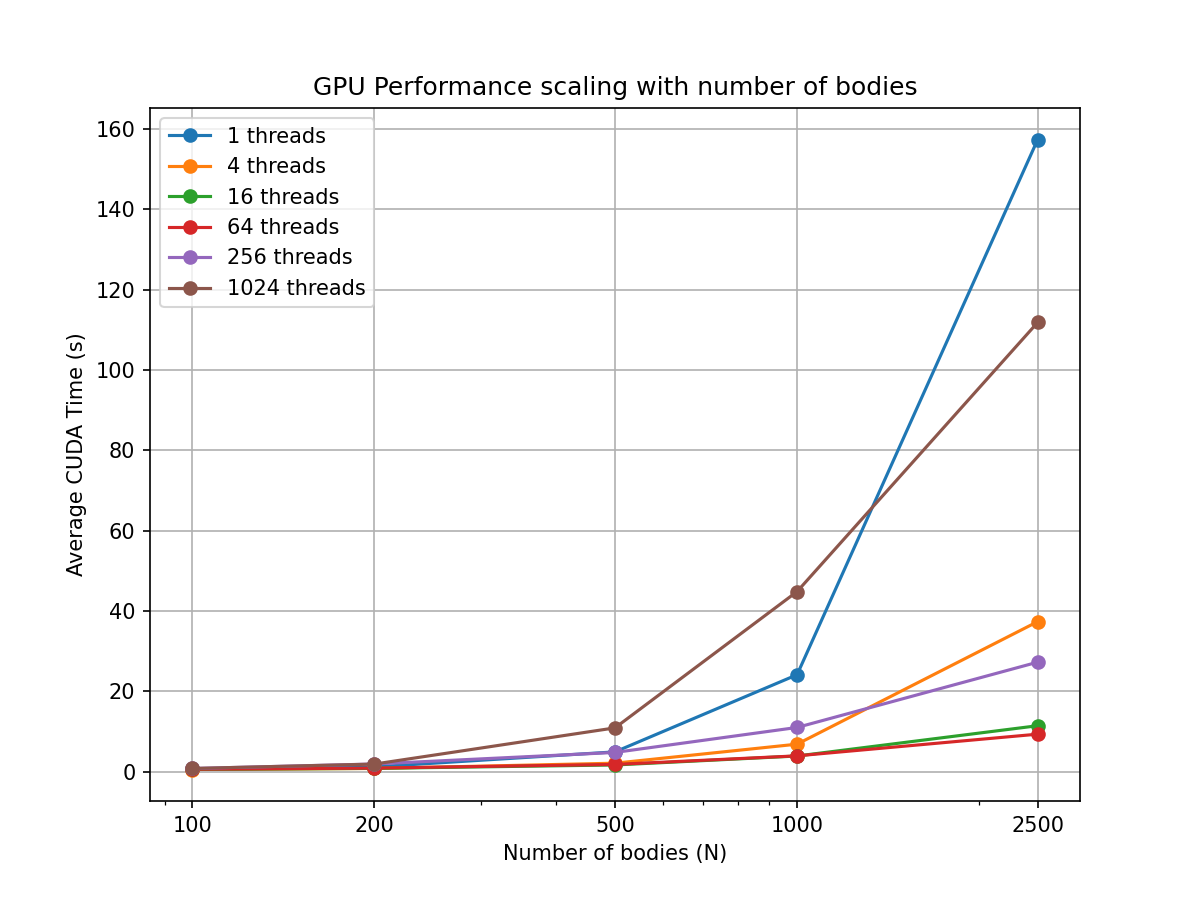
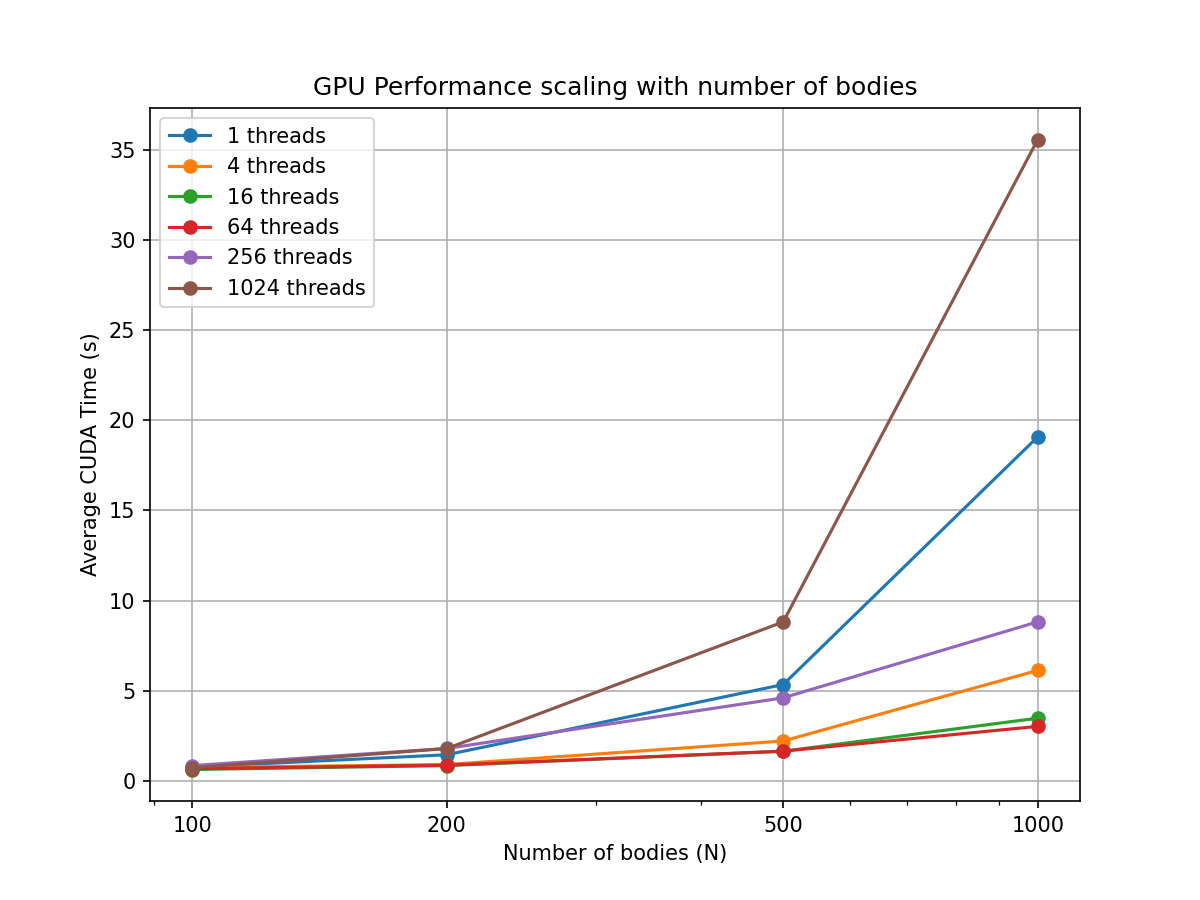
all benchmarks for task1

diff --git a/src/task1/benchmarks/benchmark_results.md b/src/task1/benchmarks/benchmark_results.md
@@ -3,35 +3,29 @@
 ## Summary
 Ниже приводится таблица результатов с разными N и количеством потоков:
 
-| N | threads | avg_time_CPU (s) | avg_time_CUDA (s) | Speedup S |
-|---|----------|-----------------|-------------------|-----------|
-| 100 | 1 | 0.900075 | 0.596447 | 1.00 |
-| 100 | 4 | 0.891023 | 0.578254 | 1.01 |
-| 100 | 16 | 0.935385 | 0.595345 | 0.96 |
-| 100 | 64 | 1.011757 | 0.644286 | 0.89 |
-| 100 | 256 | 1.242994 | 0.827121 | 0.72 |
-| 100 | 1024 | 1.182460 | 0.835759 | 0.76 |
-| 200 | 1 | 1.605920 | 1.222442 | 1.00 |
-| 200 | 4 | 1.255144 | 0.835049 | 1.28 |
-| 200 | 16 | 1.249268 | 0.853411 | 1.29 |
-| 200 | 64 | 1.002846 | 0.925149 | 1.60 |
-| 200 | 256 | 2.370934 | 1.948402 | 0.68 |
-| 200 | 1024 | 2.330678 | 1.927340 | 0.69 |
-| 500 | 1 | 5.310118 | 4.965782 | 1.00 |
-| 500 | 4 | 2.409914 | 2.148266 | 2.20 |
-| 500 | 16 | 2.195180 | 1.704426 | 2.42 |
-| 500 | 64 | 2.053314 | 1.837192 | 2.59 |
-| 500 | 256 | 5.459412 | 4.823116 | 0.97 |
-| 500 | 1024 | 11.696830 | 10.936274 | 0.45 |
-| 1000 | 1 | 25.199420 | 24.152080 | 1.00 |
-| 1000 | 4 | 7.527878 | 6.881266 | 3.35 |
-| 1000 | 16 | 4.659328 | 3.935952 | 5.41 |
-| 1000 | 64 | 4.852420 | 3.974652 | 5.19 |
-| 1000 | 256 | 11.963780 | 11.040060 | 2.11 |
-| 1000 | 1024 | 45.966820 | 44.842180 | 0.55 |
-| 2500 | 1 | 158.726000 | 157.322000 | 1.00 |
-| 2500 | 4 | 38.950800 | 37.373300 | 4.08 |
-| 2500 | 16 | 12.502760 | 11.473060 | 12.70 |
-| 2500 | 64 | 10.371454 | 9.372580 | 15.30 |
-| 2500 | 256 | 28.812720 | 27.290440 | 5.51 |
-| 2500 | 1024 | 113.108200 | 111.831000 | 1.40 |
+| N | threads | avg_time (s) | avg_time_CUDA (s) | Ускорение, S | Эффективность, E |
+|---|----------|--------------|-------------------|--------------|-----------------|
+| 100 | 1 | 0.824157 | 0.761159 | 1.00 | 1.0000 |
+| 100 | 4 | 1.198300 | 0.731747 | 0.69 | 0.1719 |
+| 100 | 16 | 1.045281 | 0.627669 | 0.79 | 0.0493 |
+| 100 | 64 | 1.112423 | 0.674950 | 0.74 | 0.0116 |
+| 100 | 256 | 1.308172 | 0.844417 | 0.63 | 0.0025 |
+| 100 | 1024 | 1.066250 | 0.723075 | 0.77 | 0.0008 |
+| 200 | 1 | 1.810326 | 1.445382 | 1.00 | 1.0000 |
+| 200 | 4 | 1.266810 | 0.905034 | 1.43 | 0.3573 |
+| 200 | 16 | 1.207356 | 0.843318 | 1.50 | 0.0937 |
+| 200 | 64 | 0.976897 | 0.868765 | 1.85 | 0.0290 |
+| 200 | 256 | 2.242612 | 1.797056 | 0.81 | 0.0032 |
+| 200 | 1024 | 1.957762 | 1.791080 | 0.92 | 0.0009 |
+| 500 | 1 | 5.999192 | 5.341478 | 1.00 | 1.0000 |
+| 500 | 4 | 2.396298 | 2.209504 | 2.50 | 0.6259 |
+| 500 | 16 | 2.058354 | 1.641650 | 2.91 | 0.1822 |
+| 500 | 64 | 1.763023 | 1.645346 | 3.40 | 0.0532 |
+| 500 | 256 | 4.956650 | 4.604084 | 1.21 | 0.0047 |
+| 500 | 1024 | 9.390668 | 8.820112 | 0.64 | 0.0006 |
+| 1000 | 1 | 19.597340 | 19.085060 | 1.00 | 1.0000 |
+| 1000 | 4 | 6.600096 | 6.126702 | 2.97 | 0.7423 |
+| 1000 | 16 | 3.839868 | 3.475504 | 5.10 | 0.3190 |
+| 1000 | 64 | 3.218494 | 3.020800 | 6.09 | 0.0951 |
+| 1000 | 256 | 9.393068 | 8.822702 | 2.09 | 0.0081 |
+| 1000 | 1024 | 36.292980 | 35.585300 | 0.54 | 0.0005 |
